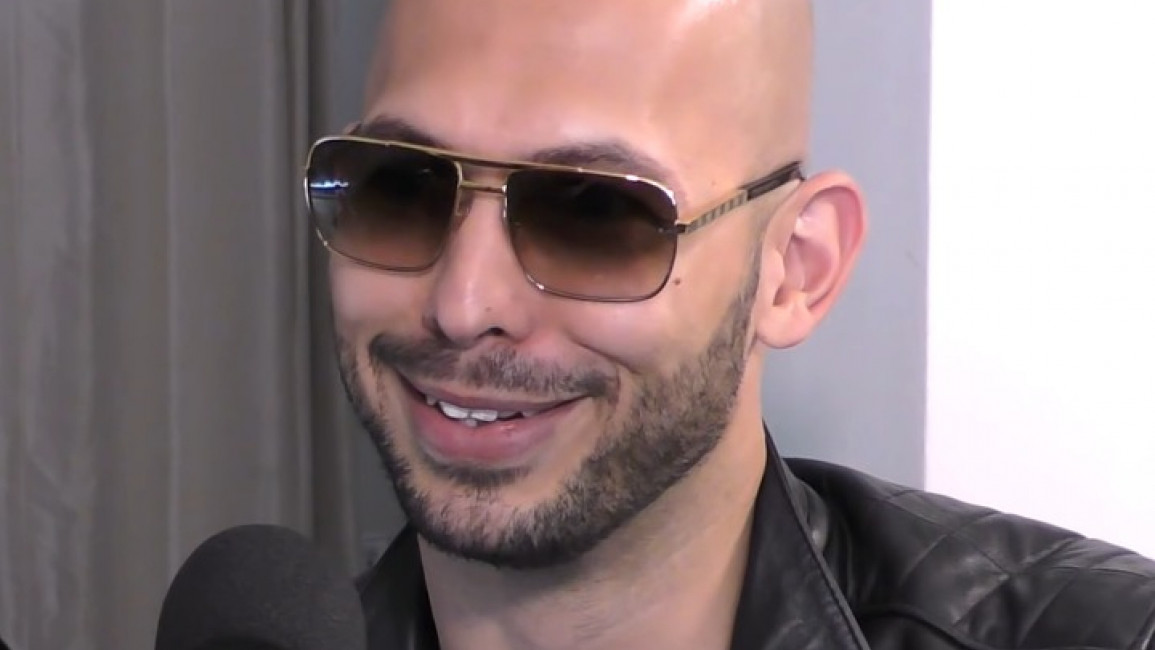
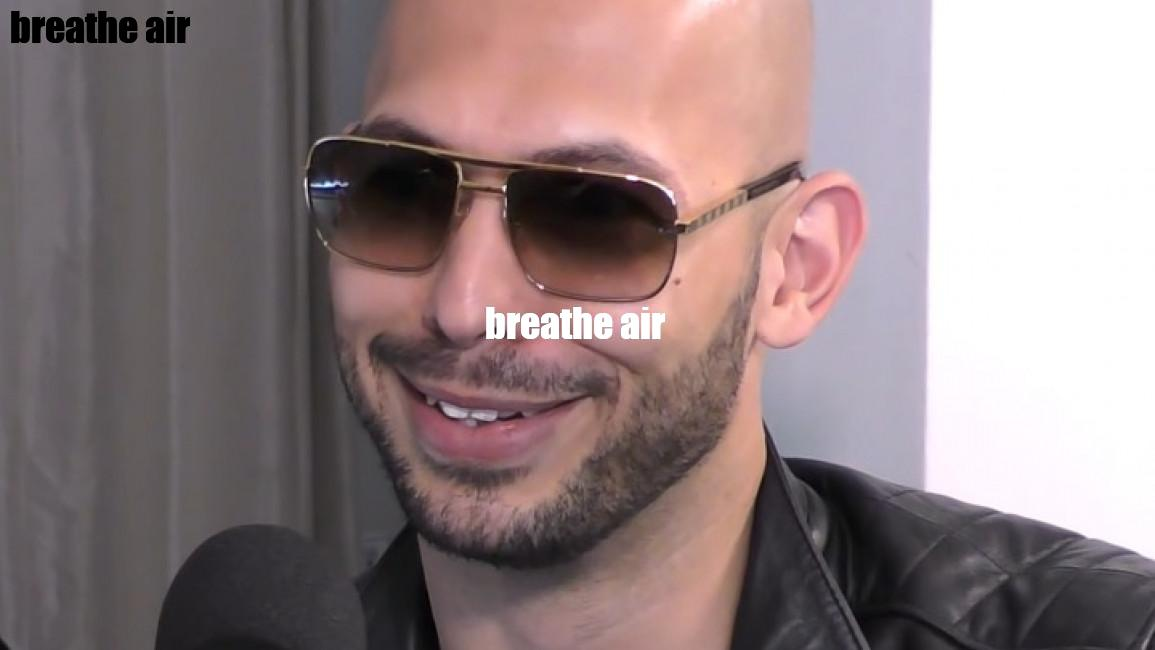
hoitate

Changed region(s): [[0.4052, 0.4615, 0.5922, 0.5231], [0.0, 0.0, 0.187, 0.0923]]

diff --git a/from PIL import Image, ImageFont, ImageD.py b/from PIL import Image, ImageFont, ImageD.py
@@ -1,6 +1,7 @@
 import PIL
 from PIL import Image, ImageFont, ImageDraw
-
+import pathlib
+import os
 achtergrond = Image.open("meme_background.jpg")
 
 breedte = achtergrond.width
@@ -17,8 +18,6 @@ tekengebied.multiline_text((10,10), tekst, font=lettertype, fill=(0,0,0))
 achtergrond.show()
 
 
-achtergrond.save("meme_met_tekst.jpg")
-
 tekst_breedte, tekst_hoogte = tekengebied.textsize(tekst, font=lettertype) 
 
 print("tekstbreedte=" + str(tekst_breedte) + ", tekst_hoogte=" + str(tekst_hoogte))
@@ -27,3 +26,5 @@ tekst_x = (breedte - tekst_breedte) / 2
 tekst_y = (hoogte - tekst_hoogte) / 2
 
 tekengebied.multiline_text((tekst_x-2, tekst_y-2), tekst, font=lettertype, fill=(255,255,255))
+
+achtergrond.save("meme_background.jpg")
